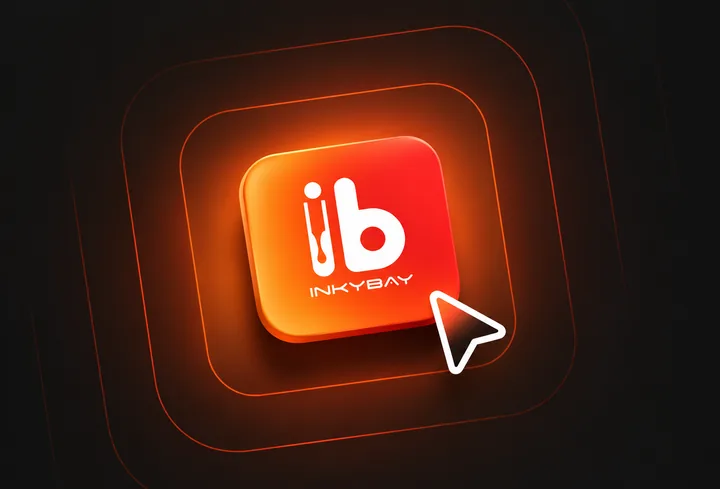
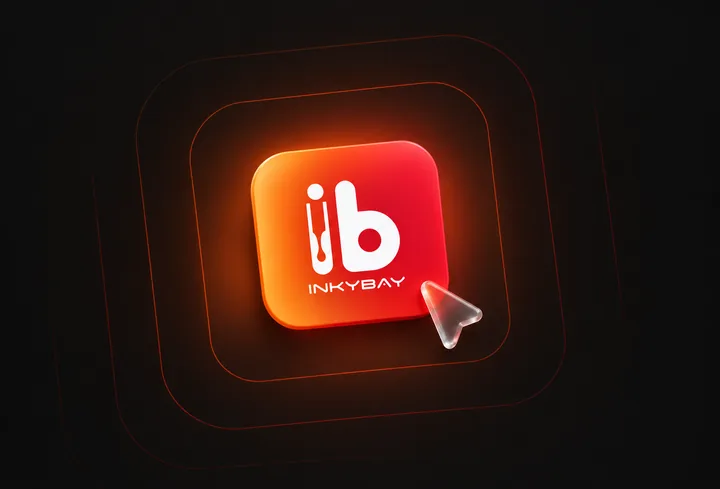
Mega menu promo: new image

diff --git a/CLAUDE.md b/CLAUDE.md
@@ -130,7 +130,8 @@ Display 64/72 (`--t-display`), H2 56 (`--t-h2`, 1.17 line-height, -0.025em), lea
 "Features" in the navbar opens a mega menu on click (not hover); outside click and Esc close it. Left: the nine
 features from `_index.json` (icon, title, `short`), the current page highlighted. `short` is menu copy: 14px,
 two lines max, about 40 characters, written so it never truncates. Right: a 280px dark promo card (`#121010`) with
-`assets/mega-promo.webp` fading into it and "Try live demo". In dark mode the card lifts off the panel: warm surface
+`assets/mega-promo.webp` fading into it and "Try live demo". The image is a 720px-wide WebP (quality ~82) shown as a
+16:10 `object-fit: cover` crop; its subject (app icon and cursor) is centred, so it uses the default `object-position`. In dark mode the card lifts off the panel: warm surface
 `#1E1714` with a soft orange glow at the top (radial, `rgba(255,117,0,.18)`) and a 1px `rgba(255,255,255,.08)` border
 drawn on `::after` so it stays visible over the full-bleed image. Light mode is unchanged. Below 1360px the promo hides (it would squeeze the
 items); below 1100px the grid drops to two columns; on phones the menu sheet shows the nine as a collapsible list.
@@ -226,6 +227,7 @@ description is cut off. Setup once: `python3 -m pip install --user playwright &&
 
 Newest first. One line per commit: date, what changed, and any decision behind it.
 
+- 2026-10-07: Mega menu promo: new image (glowing InkyBay app icon with cursor), 720x489 WebP at quality 82, same file name. Subject measures centred in the 16:10 crop (50.5% x, 49.7% y), so no object-position override
 - 2026-10-07: Mega menu promo: distinct surface in dark mode (#1E1714, top glow, 1px border; light mode unchanged). The border is on ::after, not the card, because the full-bleed image would cover an inset shadow
 - 2026-10-07: Pages source switched to GitHub Actions; live site verified (homepage and feature pages load, mega menu, breadcrumb and logo links work between them)
 - 2026-10-07: Document the new structure (README rewritten for site/, Actions deploy and local preview; playbook no longer points at the moved content/ drafts; Playwright setup uses python3 -m pip since bare pip is not always installed)
